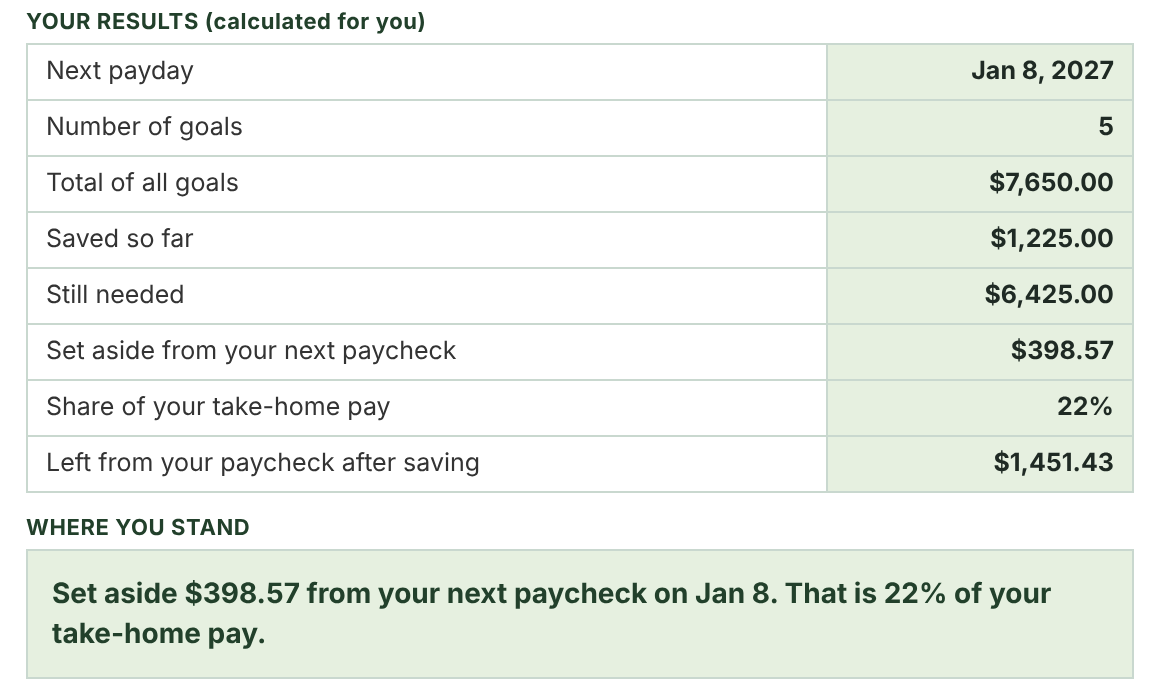
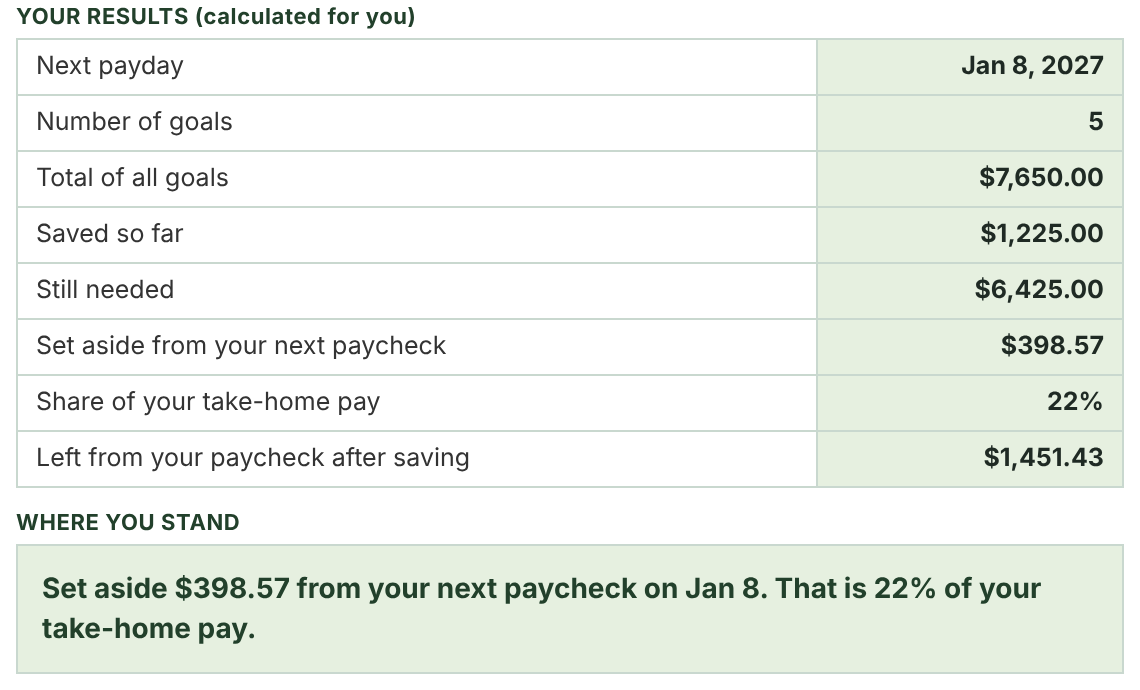
Log Pinterest week Oct 26-Nov 1; keep last week's psp crop, new one saved as psp_02_results_full
Claude-Session: https://claude.ai/code/session_01BkFZeomvHMtu5AQWrP37DK

Changed region(s): [[0.0, 0.0, 1.0, 0.9739], [0.9518, 0.7913, 1.0, 0.9739]]

diff --git a/PINTEREST-PLAN.md b/PINTEREST-PLAN.md
@@ -78,6 +78,16 @@ Real people on screen win. We can't repost, and we don't use AI people, so we us
 - Use it for College Plan funny Reels too, not only Etsy videos. First ones: pinterest/videos/meme-deadline-screenshot.mp4 (also an IG/FB Reel Wed Oct 28 6pm), meme-cake-saturday.mp4, meme-custom-order.mp4.
 
 ## Log (newest first)
+- 2026-10-25 (weekly run, week Oct 26-Nov 1; 27 open slots filled: all 7am/10am/4pm, 1pm Oct 27-Nov 1; 8pm and Oct 26 1pm were already filled). Media commit f82f9f2.
+  - Oct 26: 7am cp_fafsa_css (newsletter) | 10am cp_tracker_5 "Where Are App Fees Adding Up?" (College App Tracker) | 4pm pin_order_7 "Who Still Owes You Money?" (Small Business Spreadsheets, Order Tracker)
+  - Oct 27: 7am cp_visit | 10am cp_tour_qs | 1pm g13_candle_mistakes (Pricing for Makers, Candle) | 4pm pin_pl_6 "How Much to Save for Taxes?" (Small Business Spreadsheets, P&L)
+  - Oct 28: 7am cp_recs | 10am cp_tracker_6 "Your Whole College List on One Page" | 1pm g14_fsa_vs_hsa (Money & Budget, FSA) | 4pm VIDEO meme-cake-math.mp4 (stock meme, cake-scraper clip: "POV: you finally did the math on the cakes you've been selling" / "turns out I was paying customers to eat them"; Pricing for Makers, Cake)
+  - Oct 29: 7am cp_aid_offer | 10am cp_after_submit | 1pm g15_three_paychecks (Money & Budget, Sinking Funds) | 4pm pin_fsa_6 "How Much FSA Money Has No Plan Yet?" (Money & Budget, FSA)
+  - Oct 30: 7am cp_scams | 10am cp_ap_ib_de | 1pm g16_order_policy (Etsy Seller Tips, Order Tracker) | 4pm VIDEO meme-senior-yes.mp4 (stock meme, smiling-woman-phone-bed: "me: which of your colleges are due Nov 1? my senior: 'yes'" / "me, calmly opening the tracker instead of asking a 3rd time"; College Planning, College App Tracker). Not on IG/FB: the Oct 28 6pm meme-deadline-screenshot Reel is that week's product Reel.
+  - Oct 31: 7am cp_essay | 10am cp_brag | 1pm g17_money_routine (Small Business Spreadsheets, P&L) | 4pm pin_candle_7 "Pay Yourself in Every Candle" (Etsy Seller Tips, Candle)
+  - Nov 1: 7am cp_senior_months | 10am cp_tracker_7 "Cross Off Every Senior Task" | 1pm g18_cake_hidden (Pricing for Makers, Cake) | 4pm pin_sinking_7 "5 Savings Goals, 1 Paycheck Plan" (Money & Budget, Sinking Funds)
+  - Facts checked Oct 25: CSS Profile $25 first / $16 each additional (cssprofile.collegeboard.org); FTC scam signs (consumer.ftc.gov); aid offer terms (studentaid.gov); AP 1-5 + credit varies (apstudents.collegeboard.org); Common App 650 words; HSA rollover/portability (IRS Pub 969).
+  - New crops in pinterest/assets/win/crops/ (ord_02_glance, pl_02_glance, fsa_02_results, candle_02_yourpay, psp_02_results_full, college_02_glance, college_03_list, college_04_next). Product pins now have a check badge in the sub line (pass HTML in the sub field). Next week: try ord_05/pl_05/bake_04/candle_05/psp_04/fsa_04 regions and the college_05_guide tab.
 - 2026-10-18 (weekly run, week Oct 19-25; only 6 Pinterest slots were open, all 7am/1pm and most 10am/8pm already filled):
   - Oct 19: 4pm -> pin_order_6 "Which Order Is Due Today?" (Small Business Spreadsheets, Order Tracker)
   - Oct 20: 4pm -> pin_sinking_6 "What's Left After You Save?" (Money & Budget Planners, Sinking Funds)
